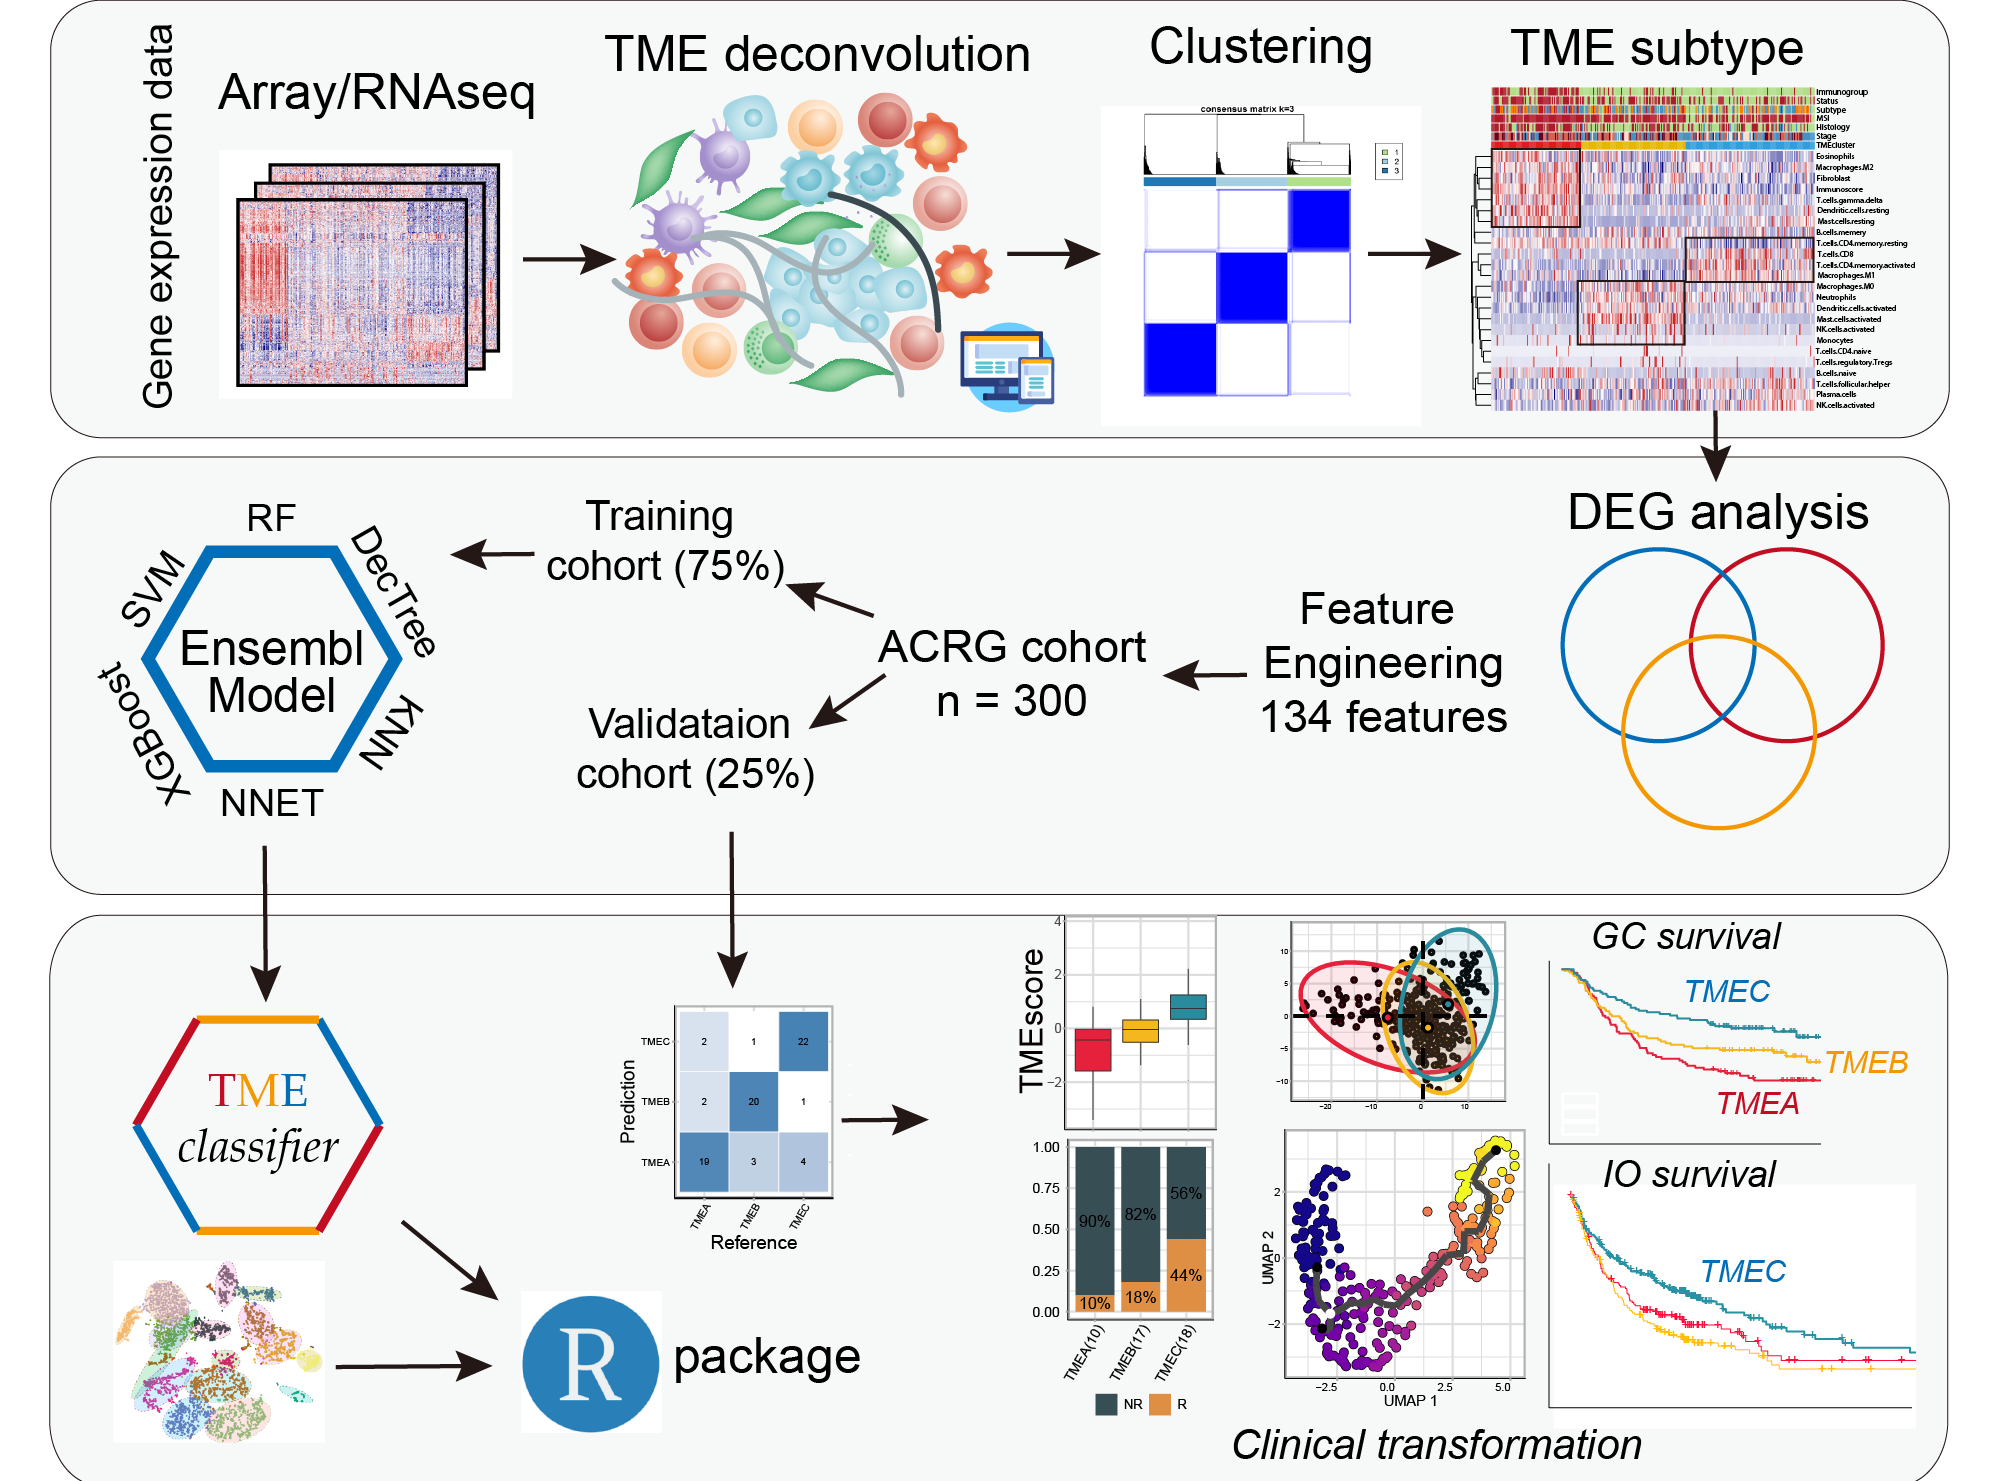
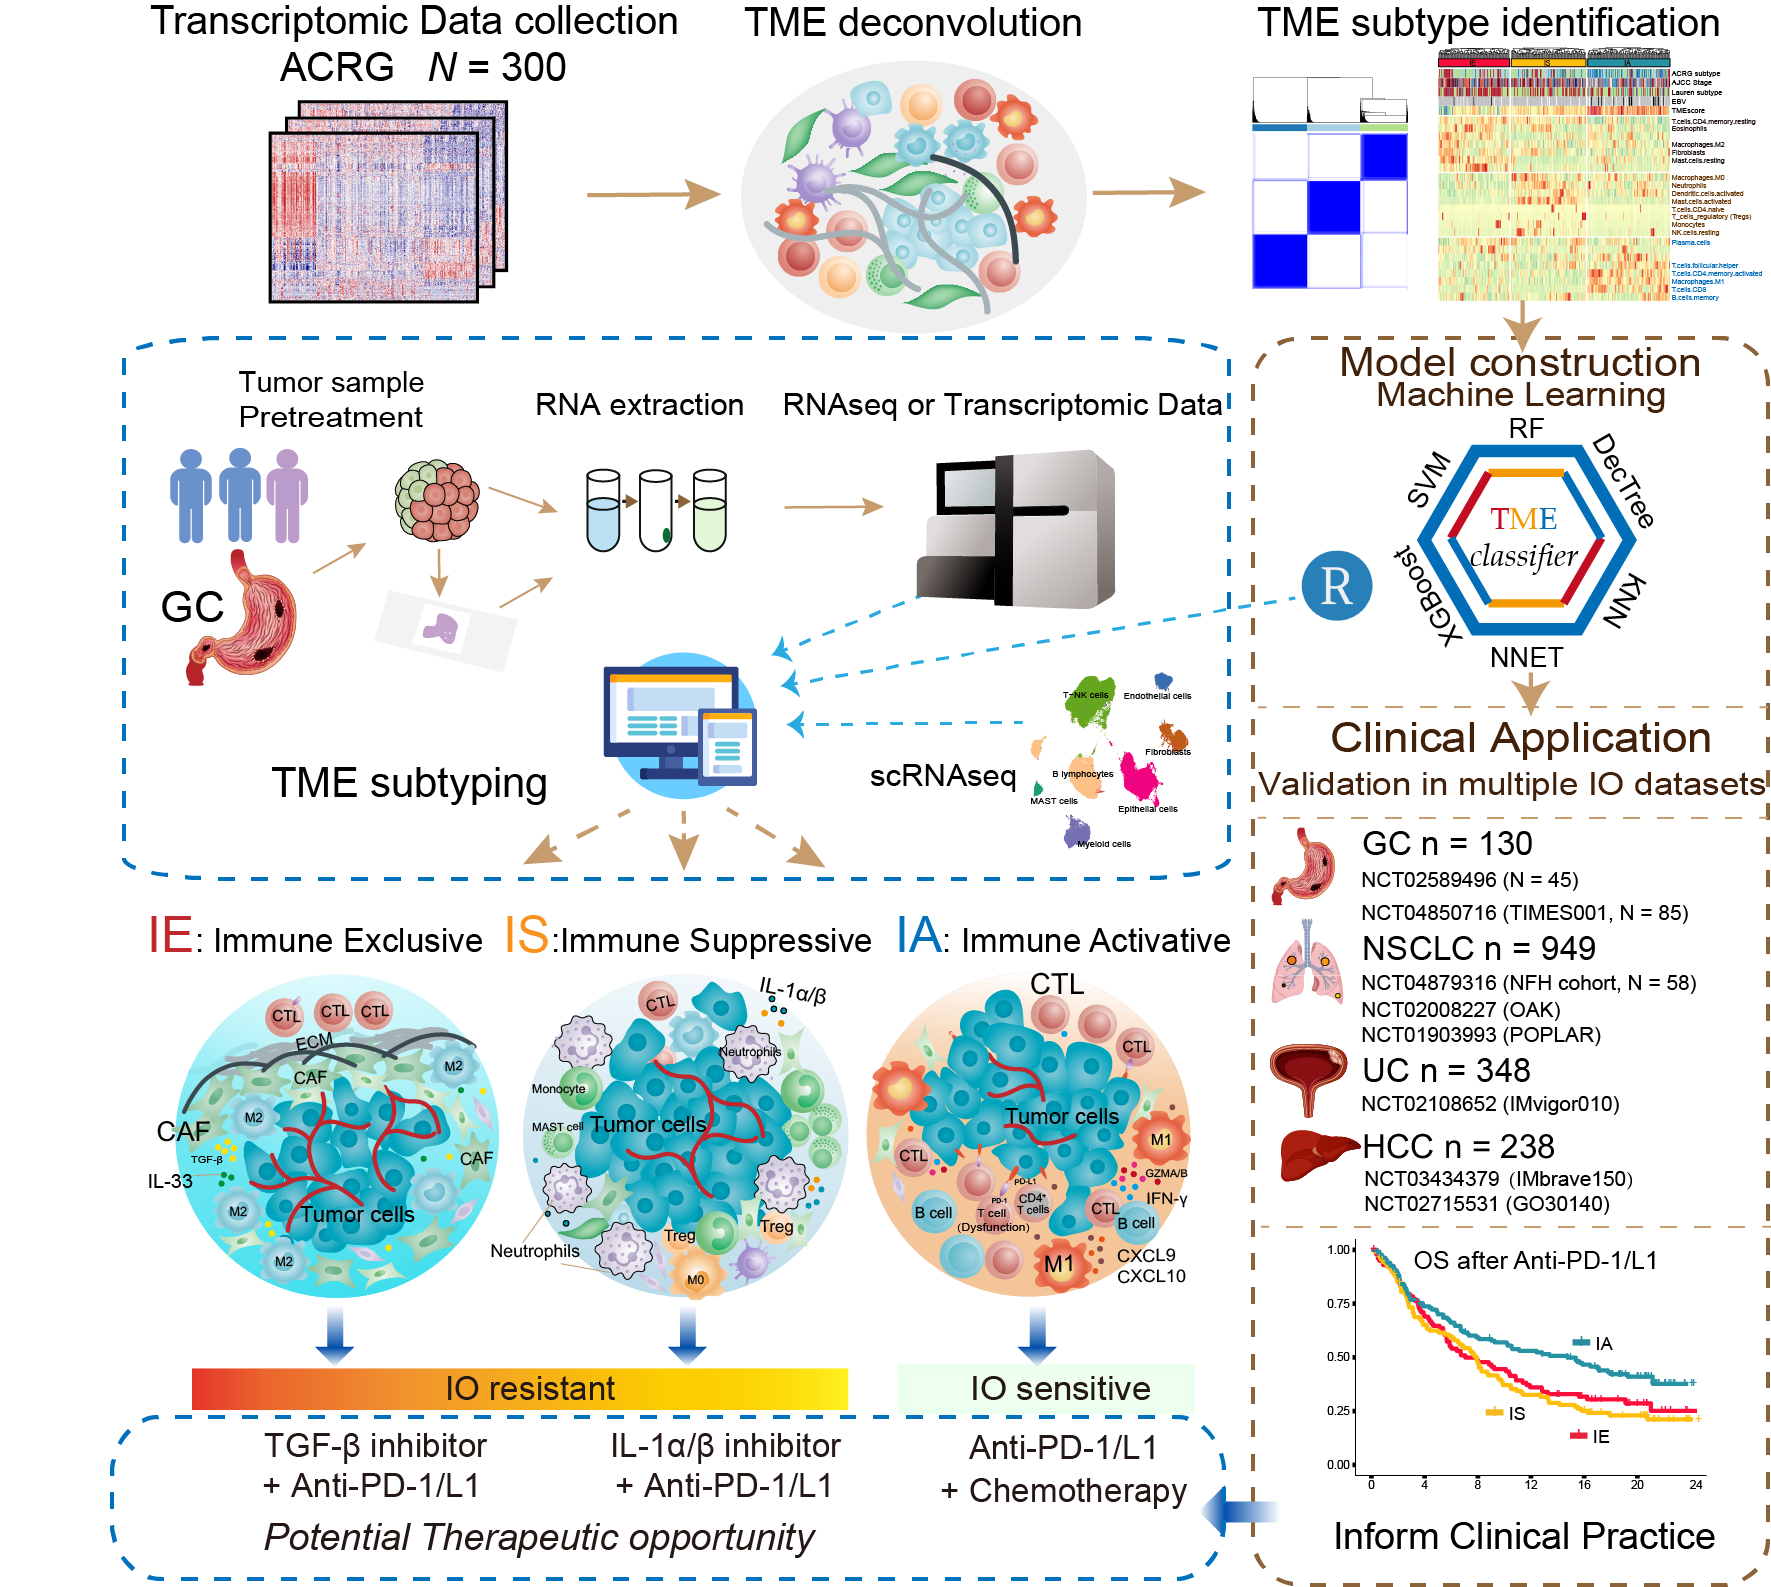
update README

diff --git a/README.md b/README.md
@@ -18,12 +18,12 @@ classification based on TME characteristics of gastric cancer.
 -   3.TMEclassifier identifies three TME-clusters based on expression
     profiles of 134 TME-related genes and ensemble models.
 -   4.In addition, TMEclassifier provides functions for multi-scale
-    visualization of TMEcluster and some functions was depend on `IOBR`,
+    visualization of TMEcluster and some functions depend on `IOBR`,
     which was developed by our team previously. The research about IOBR
     can be reached by this
     [link](https://pubmed.ncbi.nlm.nih.gov/34276676/).
 
-#### Construction of TMEclassifier package
+#### Graphical abstract for construction and clinical application of TMEclassifier
 
 ![TMEclassifier logo](./man/figures/TMEclassifier-workflow.png)
 
@@ -33,11 +33,10 @@ It is essential that you have R 3.6.3 or above already installed on your
 computer or server. Before installing TMEclassifier, please install all
 dependencies by executing the following command in R console:
 
-The dependencies includes `crayon`, `ggplot2`, `scales`, `tibble`,
-`caret`, `IOBR`, `e1071`, `ggplot2` and `ggpubr`.
+The dependencies includes `caret`, `e1071`, `crayon`, `ggplot2`,
+`scales`, `tibble`, `IOBR`, `ggplot2` and `ggpubr`.
 
 ``` r
-
 if (!requireNamespace("BiocManager", quietly = TRUE)) install.packages("BiocManager")
 
 depens<-c("crayon", "ggplot2", "scales", "tibble", "caret", "e1071", "randomForest", "xgboost", "ggpp", "kernlab", "ComplexHeatmap", "survminer", "ggpubr")
@@ -54,6 +53,7 @@ Github:
 ``` r
 if (!requireNamespace("TMEclassifier", quietly = TRUE))
   devtools::install_github("LiaoWJLab/TMEclassifier")
+#> Warning: 程辑包'tidyHeatmap'是用R版本4.2.3 来建造的
 ```
 
 Library R packages
@@ -72,13 +72,11 @@ res<-tme_classifier(eset = t(eset_example1), method = "ensemble", scale = T)
 #> 
 #> Step-2: TME deconvolution...
 #> >>> This step was skipped, user can set parameter `tme_deconvolution` to TRUE or provide TME data to realize prediction.
-#> >>>--  More TME deconvolution algorithms can be reached from:  
-#> >>>--  https://github.com/IOBR/IOBR
-#> >>>-- Scaling data...
 #> 
 #> Step-3: Predicting TME phenotypes...
+#> >>>-- Scaling data...
 #> >>>--- Ensemble Model was used to predict TME phenotypes...
-#> [16:12:24] WARNING: amalgamation/../src/learner.cc:1040: 
+#> [14:54:19] WARNING: amalgamation/../src/learner.cc:1040: 
 #>   If you are loading a serialized model (like pickle in Python, RDS in R) generated by
 #>   older XGBoost, please export the model by calling `Booster.save_model` from that version
 #>   first, then load it back in current version. See:
@@ -87,7 +85,7 @@ res<-tme_classifier(eset = t(eset_example1), method = "ensemble", scale = T)
 #> 
 #>   for more details about differences between saving model and serializing.
 #> 
-#> [16:12:24] WARNING: amalgamation/../src/learner.cc:749: Found JSON model saved before XGBoost 1.6, please save the model using current version again. The support for old JSON model will be discontinued in XGBoost 2.3.
+#> [14:54:19] WARNING: amalgamation/../src/learner.cc:749: Found JSON model saved before XGBoost 1.6, please save the model using current version again. The support for old JSON model will be discontinued in XGBoost 2.3.
 #> 
 #> >>>--- DONE!
 head(res)
@@ -141,21 +139,21 @@ Box plot
 cols<- c('#fc0d3a','#ffbe0b','#2692a4')
 p1<-sig_box(data = input, signature = "TMEscore", variable = "TMEcluster", cols = cols, hjust = 0.5)
 #> # A tibble: 3 × 8
-#>   .y.       group1 group2        p   p.adj p.format p.signif method  
-#>   <chr>     <chr>  <chr>     <dbl>   <dbl> <chr>    <chr>    <chr>   
-#> 1 signature TMEC   TMEA   3.66e-24 1.1e-23 < 2e-16  ****     Wilcoxon
-#> 2 signature TMEC   TMEB   1.18e-17 2.4e-17 < 2e-16  ****     Wilcoxon
-#> 3 signature TMEA   TMEB   9.44e- 6 9.4e- 6 9.4e-06  ****     Wilcoxon
-#> Warning: Removed 1 rows containing non-finite values (stat_boxplot).
-#> Warning: Removed 1 rows containing non-finite values (stat_signif).
-#> Warning: Removed 1 rows containing non-finite values (stat_compare_means).
+#>   .y.       group1 group2        p    p.adj p.format p.signif method  
+#>   <chr>     <chr>  <chr>     <dbl>    <dbl> <chr>    <chr>    <chr>   
+#> 1 signature TMEC   TMEA   3.66e-24 1.10e-23 < 2e-16  ****     Wilcoxon
+#> 2 signature TMEC   TMEB   1.18e-17 2.40e-17 < 2e-16  ****     Wilcoxon
+#> 3 signature TMEA   TMEB   9.44e- 6 9.40e- 6 9.4e-06  ****     Wilcoxon
+#> Warning: Removed 1 rows containing non-finite values (`stat_boxplot()`).
+#> Warning: Removed 1 rows containing non-finite values (`stat_signif()`).
+#> Warning: Removed 1 rows containing non-finite values (`stat_compare_means()`).
 p2<-sig_box(data = input, signature = "T.cells.CD8", variable = "TMEcluster", cols = cols, hjust = 0.5)
 #> # A tibble: 3 × 8
-#>   .y.       group1 group2        p   p.adj p.format p.signif method  
-#>   <chr>     <chr>  <chr>     <dbl>   <dbl> <chr>    <chr>    <chr>   
-#> 1 signature TMEC   TMEA   1.06e- 9 2.1e- 9 1.1e-09  ****     Wilcoxon
-#> 2 signature TMEC   TMEB   7.54e-18 2.3e-17 < 2e-16  ****     Wilcoxon
-#> 3 signature TMEA   TMEB   1.09e- 3 1.1e- 3 0.0011   **       Wilcoxon
+#>   .y.       group1 group2        p    p.adj p.format p.signif method  
+#>   <chr>     <chr>  <chr>     <dbl>    <dbl> <chr>    <chr>    <chr>   
+#> 1 signature TMEC   TMEA   1.06e- 9 2.10e- 9 1.1e-09  ****     Wilcoxon
+#> 2 signature TMEC   TMEB   7.54e-18 2.3 e-17 < 2e-16  ****     Wilcoxon
+#> 3 signature TMEA   TMEB   1.09e- 3 1.1 e- 3 0.0011   **       Wilcoxon
 ```
 
 KM-plot
@@ -212,23 +210,23 @@ if (!requireNamespace("patchwork", quietly = TRUE))
 library(patchwork)
 p<-(p1|p2|p3)/(p4|p5|p6)
 p + plot_annotation(tag_levels = 'A')
-#> Warning: Removed 1 rows containing non-finite values (stat_boxplot).
-#> Warning: Removed 1 rows containing non-finite values (stat_signif).
-#> Warning: Removed 1 rows containing non-finite values (stat_compare_means).
+#> Warning: Removed 1 rows containing non-finite values (`stat_boxplot()`).
+#> Warning: Removed 1 rows containing non-finite values (`stat_signif()`).
+#> Warning: Removed 1 rows containing non-finite values (`stat_compare_means()`).
 ```
 
 <img src="man/figuresunnamed-chunk-11-1.png" width="100%" />
 
-### 5.Pphenotype of TMEclusters defined by gastric cancer.
+### 5.Phenotype of TMEclusters defined by gastric cancer.
 
 ![TMEcluster logo](./man/figures/TMEcluster-gc.png)
 
 ## References
 
-1.Zeng D, Qiu W, Mao Q, …, Liao W; **TMEclassifier**: Classification of
-gastric cancer based on tumor microenvironment reveals distinct
-biological characteristics and implications for combination
-immunotherapies. (2022) *Under Review*.
+1.Zeng D, Yu Y, Qiu W, Mao Q, …, Zhang K, Liao W; Tumor microenvironment
+immunotyping heterogeneity reveals distinct molecular mechanisms to
+clinical immunotherapy applications in gastric cancer. (2023) *Under
+Review*.
 
 2.Zeng D, Li M, …, Liao W; [Tumor microenvironment characterization in
 gastric cancer identifies prognostic and imunotherapeutically relevant
